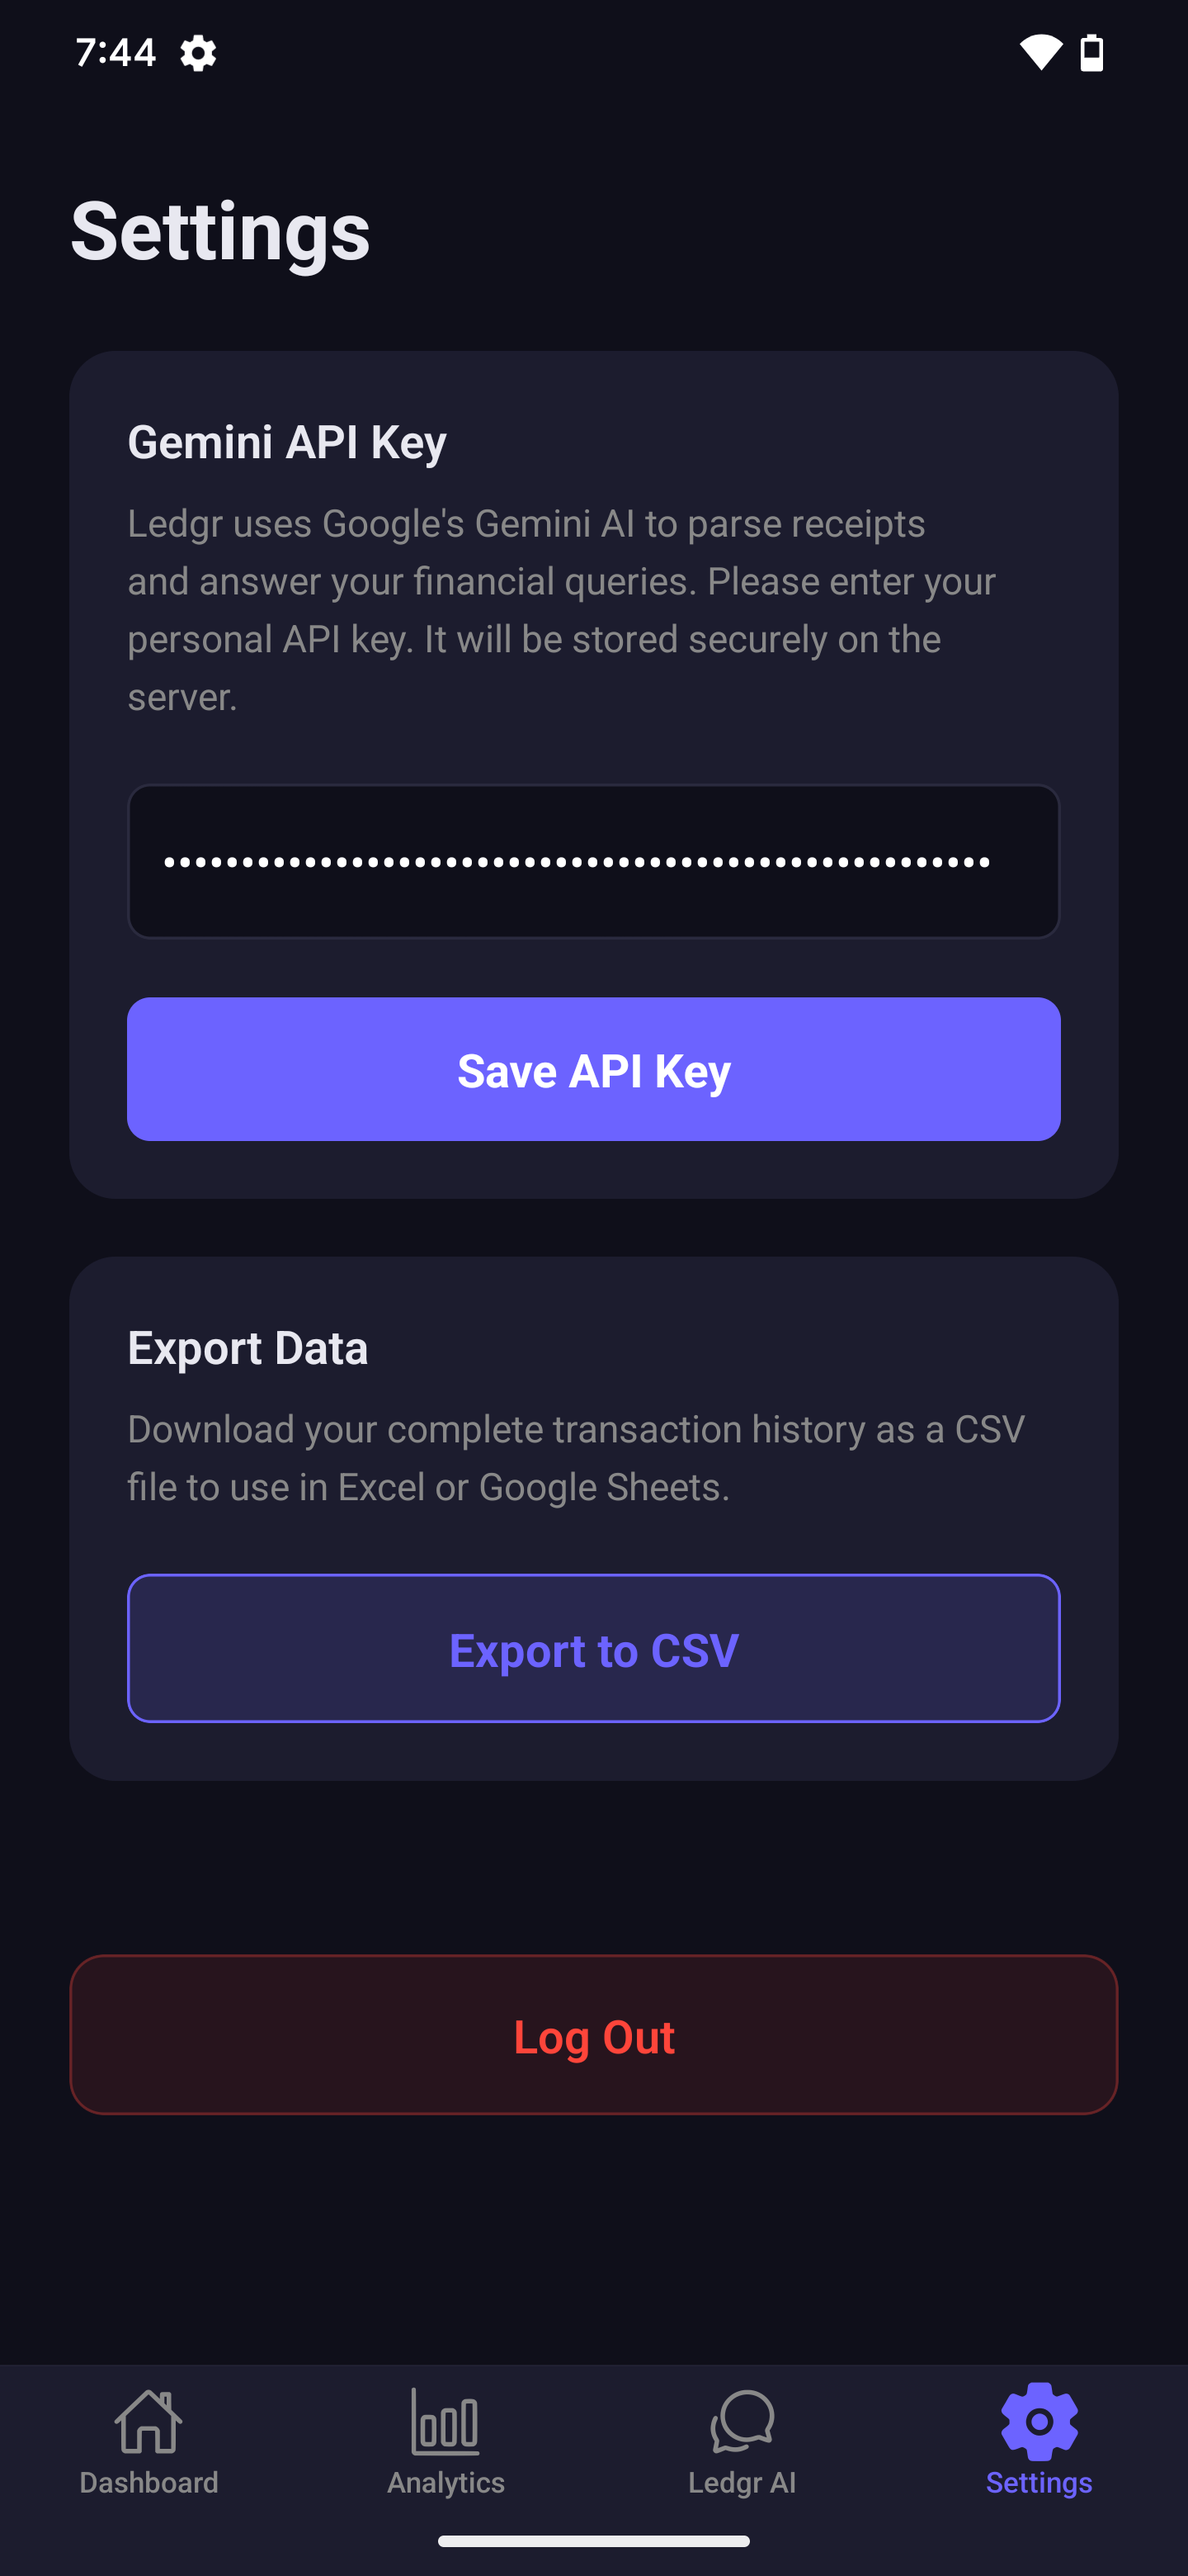
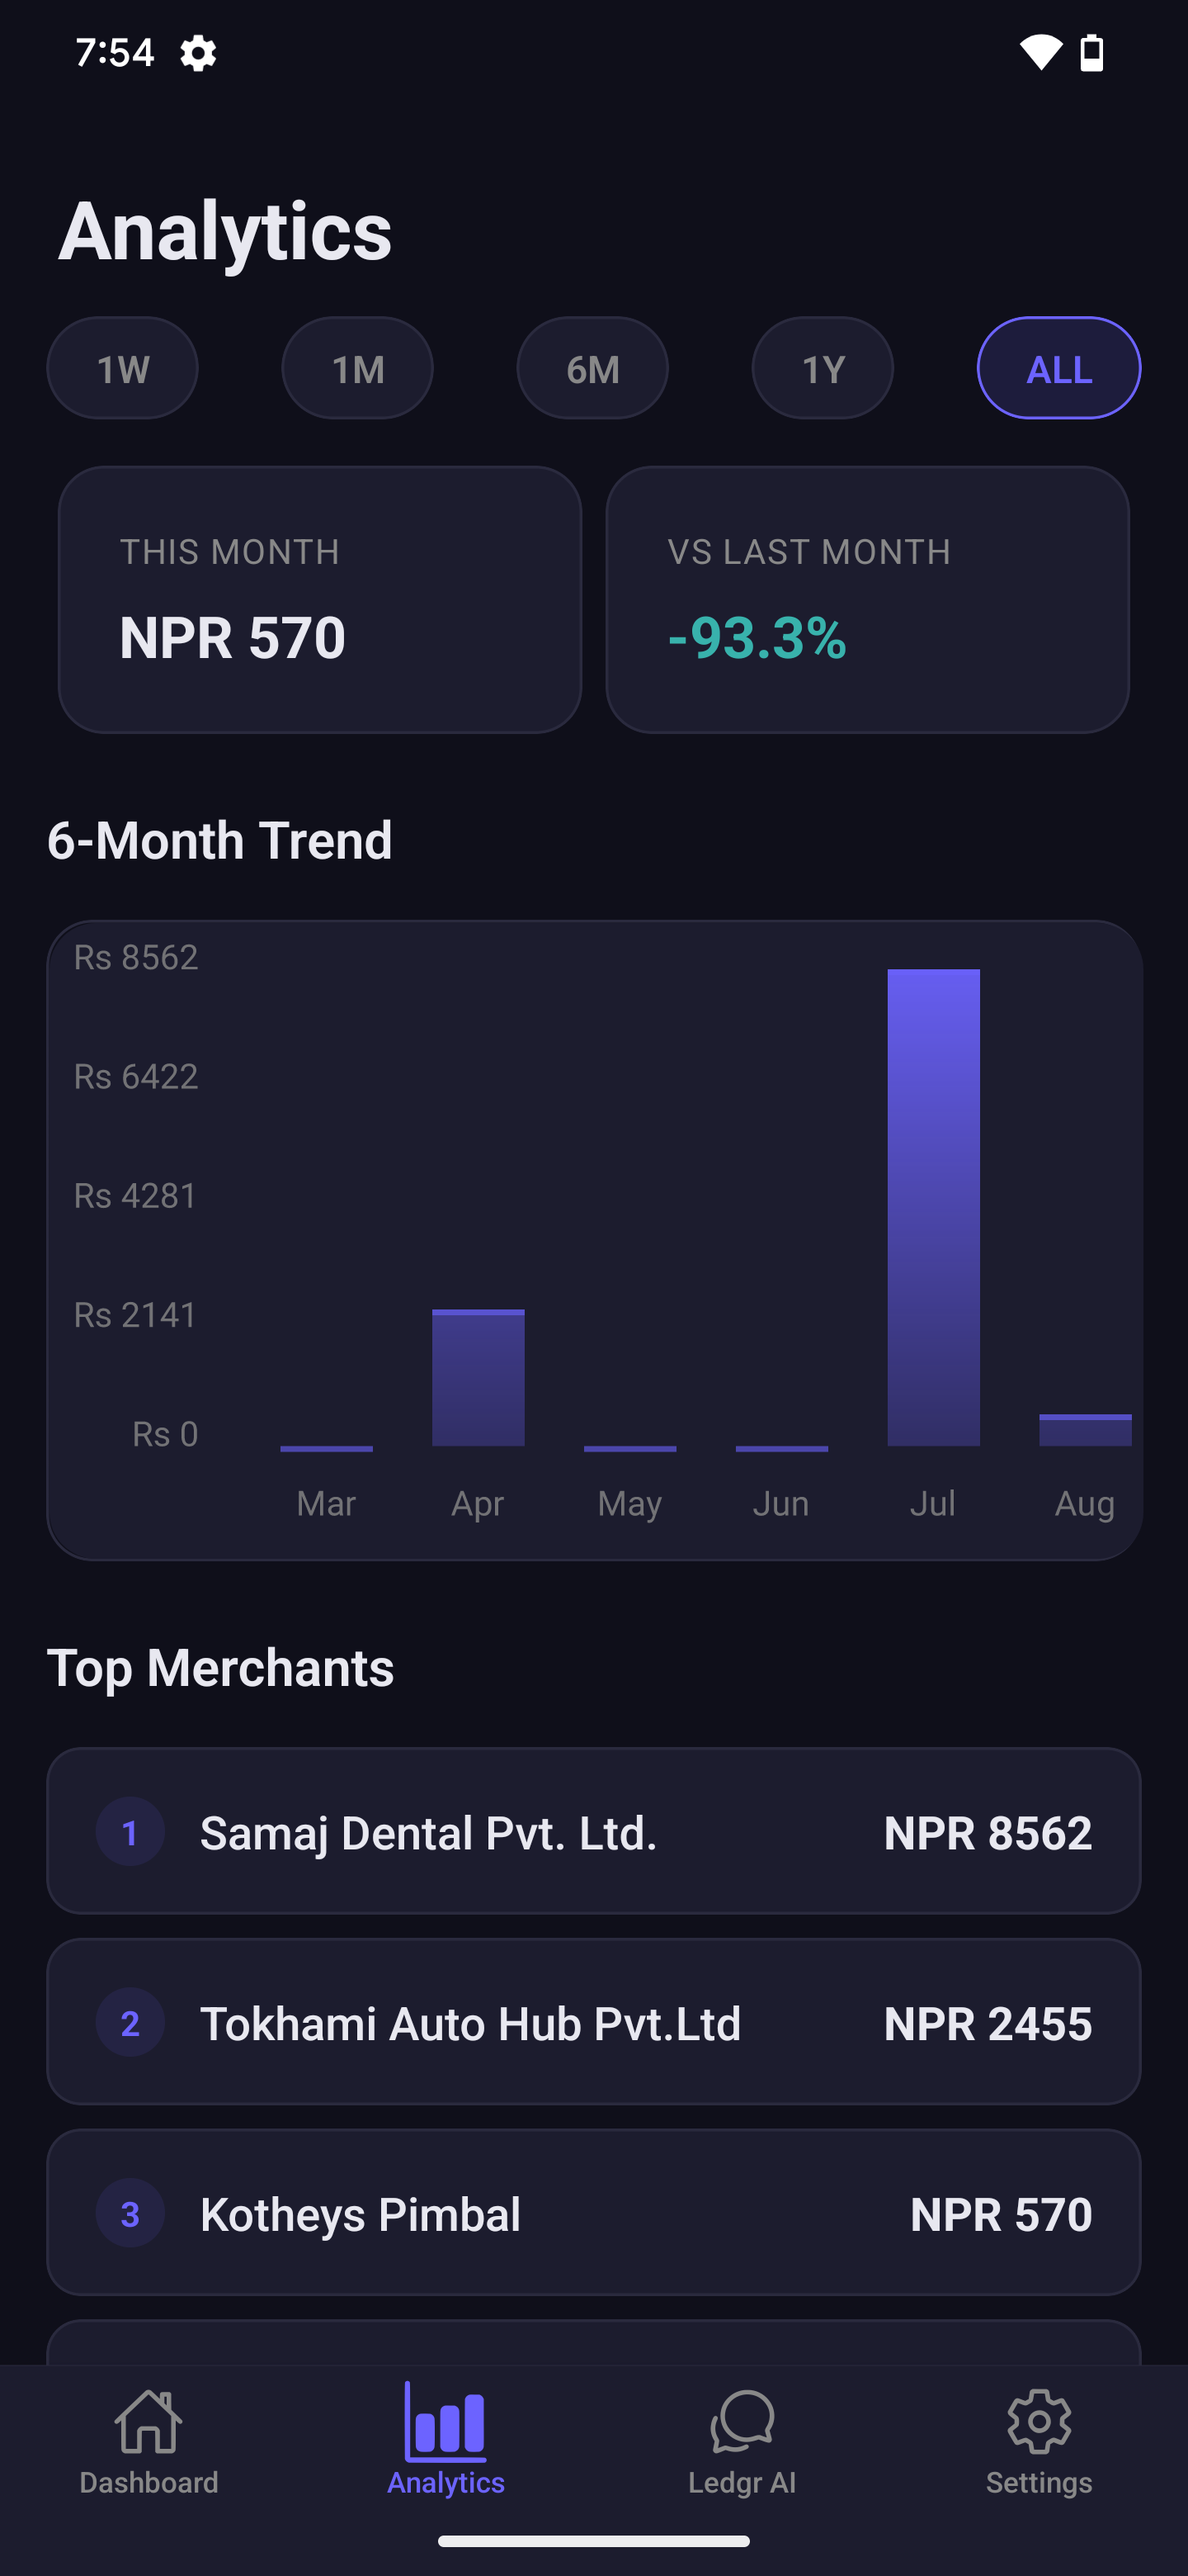
edit readme

diff --git a/README.md b/README.md
@@ -10,7 +10,7 @@ Ledgr is an automated personal finance platform that ingests unstructured financ
 
 Traditional finance tracking requires manual data entry. Ledgr eliminates this friction through automated multimodal extraction, persisting transaction data in both a relational database for deterministic queries and a vector store for semantic search.
 
-![App Dashboard Screenshot](screenshots/dashboard_placeholder.png)
+<img src="screenshots/dashboard_placeholder.png" alt="App Dashboard Screenshot" width="250" />
 *(Placeholder: Dashboard Overview)*
 
 ### Core Capabilities
@@ -22,7 +22,7 @@ Traditional finance tracking requires manual data entry. Ledgr eliminates this f
     *   Vector Store (ChromaDB): Semantic similarity search for fuzzy queries.
 *   **Agentic Routing**: Natural language queries are routed dynamically to a Text-to-SQL engine or a RAG pipeline based on intent analysis.
 
-![AI Query Interface Screenshot](screenshots/query_interface_placeholder.png)
+<img src="screenshots/query_interface_placeholder.png" alt="AI Query Interface Screenshot" width="250" />
 *(Placeholder: Natural Language Query Interface)*
 
 ---
@@ -50,13 +50,13 @@ LangChain Agent Router
         +──── Vector Tool  -> "Where did I purchase filter coffee?"
 ```
 
-![Capture and Review Flow Screenshot](screenshots/capture_flow_placeholder.png)
+<img src="screenshots/capture_flow_placeholder.png" alt="Capture and Review Flow Screenshot" width="250" />
 *(Placeholder: Receipt Capture and Review Flow)*
 
-![Analytics Dashboard Screenshot](screenshots/analytics_placeholder.png)
+<img src="screenshots/analytics_placeholder.png" alt="Analytics Dashboard Screenshot" width="250" />
 *(Placeholder: Analytics and Data Visualization)*
 
-![Settings and Export Screenshot](screenshots/settings_placeholder.png)
+<img src="screenshots/settings_placeholder.png" alt="Settings and Export Screenshot" width="250" />
 *(Placeholder: User Settings and CSV Data Export)*
 
 ---
